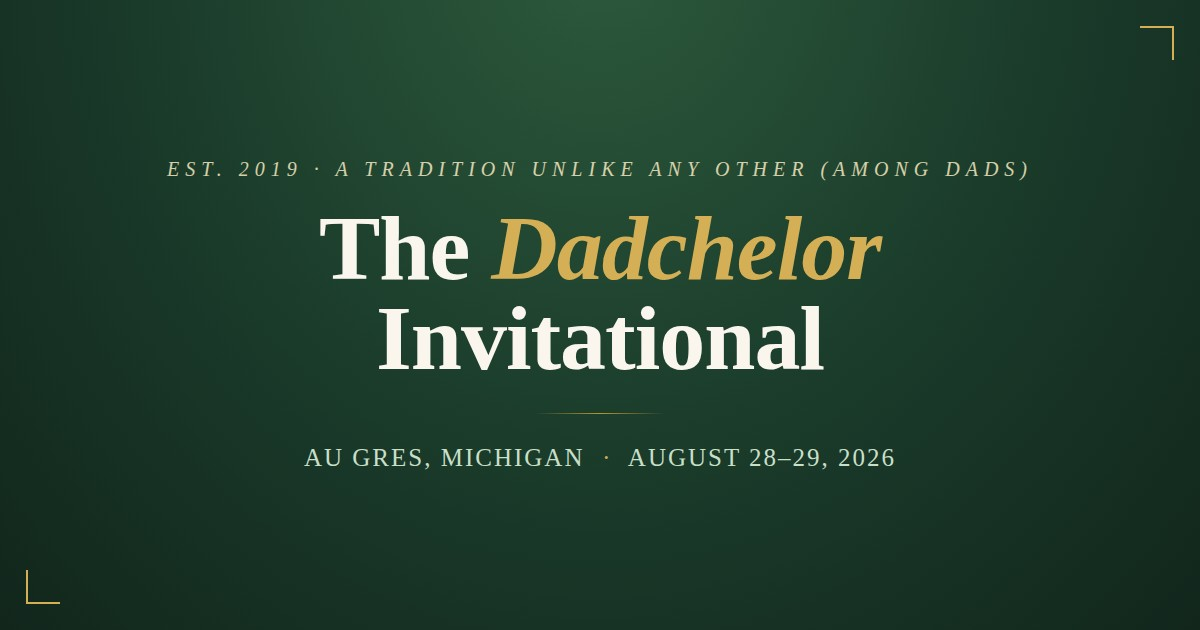
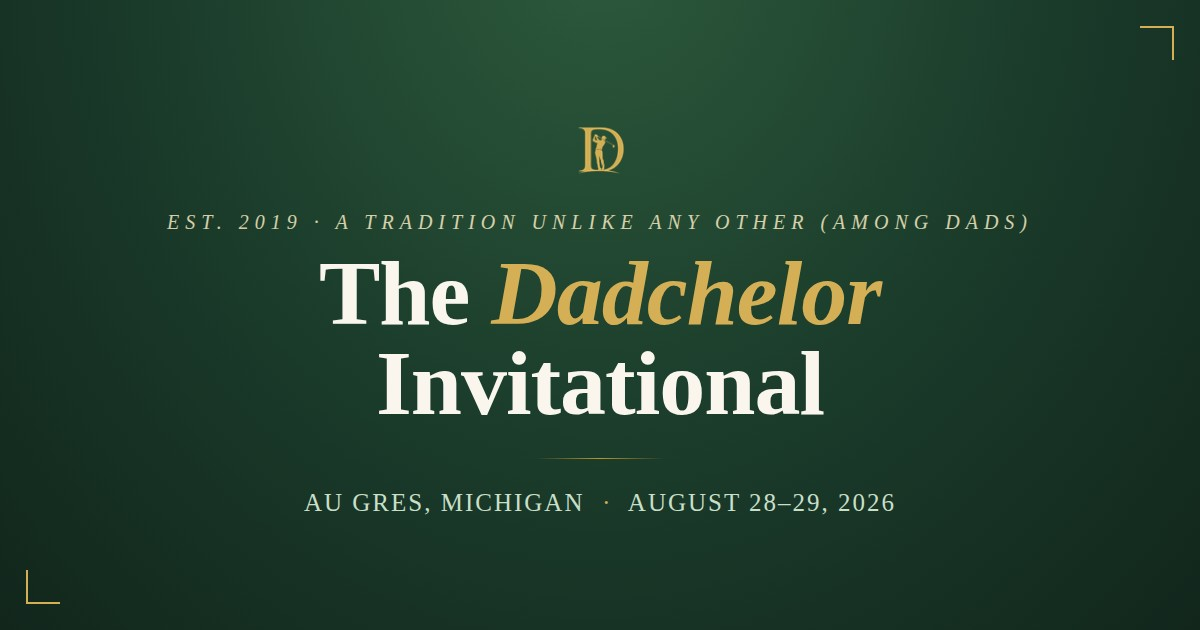
v168: Add crest to OG image

diff --git a/sw.js b/sw.js
@@ -1,4 +1,4 @@
-const CACHE_NAME = 'dadchelor-v0814-2123';
+const CACHE_NAME = 'dadchelor-v0814-2134';
 const ASSETS = [
   '/',
   '/index.html',
